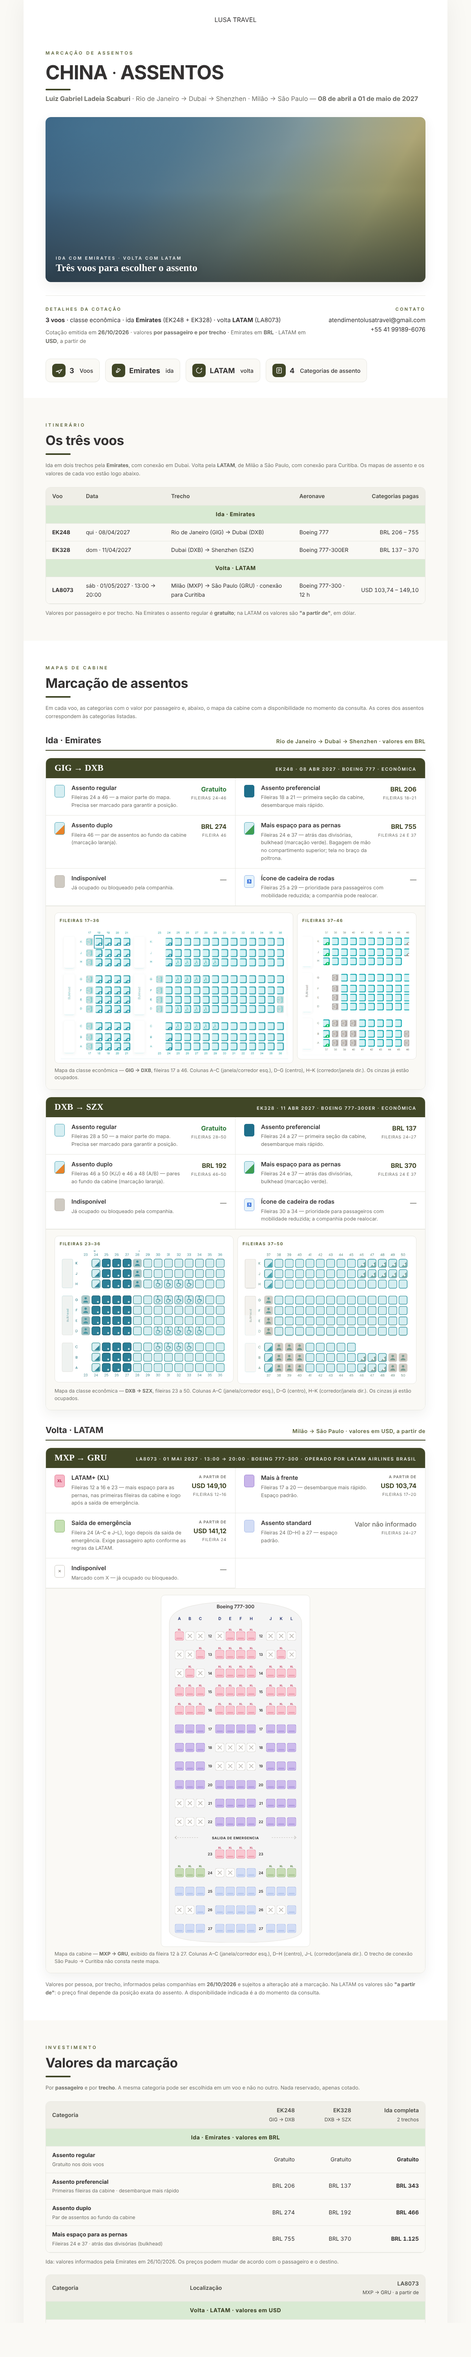
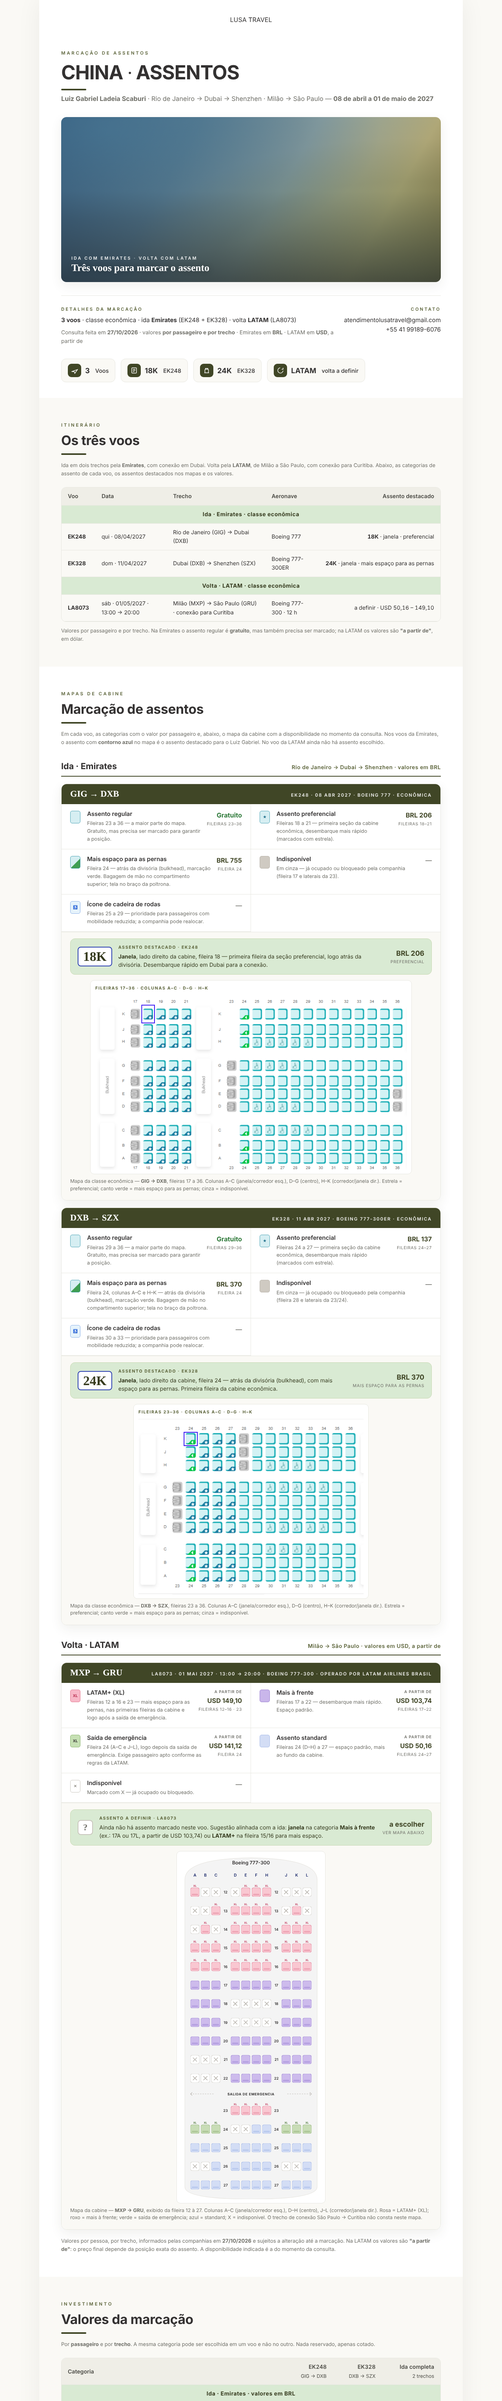
Luiz Gabriel: página de assentos refeita com os prints Emirates (18K/24K) e LATAM com preço standard
- Mapas EK248/EK328 trocados pelos prints enviados (webp sem perdas), assentos destacados
- LA8073 com tabela de preços atualizada (standard USD 50,16)
- Publicada em cotacao-luiz-gabriel-assentos.vercel.app (substitui a versão com imagens corrompidas)

Claude-Session: https://claude.ai/code/session_01AaMdZyqdA5pyaEQqEQ4NjR

Changed region(s): [[0.0925, 0.0, 0.8942, 1.0], [0.7708, 0.0312, 0.925, 0.1558]]

diff --git a/cotacoes/luiz-gabriel-assentos/src/index.html b/cotacoes/luiz-gabriel-assentos/src/index.html
@@ -3,11 +3,24 @@
 <head>
 <meta charset="utf-8">
 <meta name="viewport" content="width=device-width, initial-scale=1">
-<title>Lusa Travel · Marcação de assentos — Luiz Gabriel</title>
+<title>Lusa Travel · Marcação de assentos — Luiz Gabriel Scaburi</title>
 <link rel="preconnect" href="https://fonts.googleapis.com">
 <link rel="preconnect" href="https://fonts.gstatic.com" crossorigin>
 <link href="https://fonts.googleapis.com/css2?family=Cormorant+Garamond:wght@400;500;600;700&family=Poppins:wght@300;400;500;600;700&display=swap" rel="stylesheet">
 <link rel="stylesheet" href="style.css">
+<style>
+.hero-img{height:420px}.hero-img img{object-position:center 40%}@media(max-width:720px){.hero-img{height:230px}}
+.sw-ek-pref{background:#d6eef2;border-color:#4aa3b5!important;color:#1f6f8b;font-size:.85rem}
+.mapone{border:1px solid var(--line);border-radius:10px;background:#fff;padding:12px 12px 10px;max-width:820px;margin:0 auto}
+.mapone img{width:100%;height:auto;display:block}
+.pick{display:grid;grid-template-columns:auto 1fr auto;gap:16px;align-items:center;background:var(--sage);border:1px solid #c6d8b0;border-radius:12px;padding:14px 18px;margin:0 22px 16px}
+.pick .seat{font-family:'Cormorant Garamond',Georgia,serif;font-size:2.1rem;font-weight:700;color:var(--green-dark);line-height:1;padding:6px 12px;border:2px solid #2b3fb0;border-radius:8px;background:#fff}
+.pick .k{font-size:.66rem;letter-spacing:.16em;text-transform:uppercase;font-weight:700;color:var(--green-soft)}
+.pick .d{font-size:.88rem;color:var(--green-dark);margin-top:3px;line-height:1.5}
+.pick .pr{text-align:right;white-space:nowrap}.pick .pr .p{font-weight:700;color:var(--green);font-size:1.1rem}.pick .pr .q{font-size:.66rem;color:var(--muted);text-transform:uppercase;letter-spacing:.07em}
+.seatmap .pick{margin:0 0 14px}
+@media(max-width:640px){.pick{grid-template-columns:auto 1fr}.pick .pr{grid-column:1/-1;text-align:left}}
+</style>
 </head>
 <body>
 <div class="page">
@@ -18,16 +31,15 @@
     <h1>CHINA <span class="amp">·</span> ASSENTOS</h1>
     <div class="accent-line"></div>
     <p class="hero-sub"><b>Luiz Gabriel Ladeia Scaburi</b> · Rio de Janeiro → Dubai → Shenzhen · Milão → São Paulo — <b>08 de abril a 01 de maio de 2027</b></p>
-    <style>.hero-img{height:420px}.hero-img img{object-position:center 40%}@media(max-width:720px){.hero-img{height:230px}}</style>
     <div class="hero-img">
       <img src="img/capa.jpg" alt="China" onerror="this.style.display='none'">
-      <div class="cap"><div class="k">Ida com Emirates · volta com LATAM</div><div class="t">Três voos para escolher o assento</div></div>
+      <div class="cap"><div class="k">Ida com Emirates · volta com LATAM</div><div class="t">Três voos para marcar o assento</div></div>
     </div>
     <div class="hero-info">
       <div>
-        <div class="lbl">Detalhes da cotação</div>
+        <div class="lbl">Detalhes da marcação</div>
         <p><b>3 voos</b> · classe econômica · ida <b>Emirates</b> (EK248 + EK328) · volta <b>LATAM</b> (LA8073)</p>
-        <p class="muted" style="margin-top:8px;font-size:.86rem">Cotação emitida em <b>26/10/2026</b> · valores <b>por passageiro e por trecho</b> · Emirates em <b>BRL</b> · LATAM em <b>USD</b>, a partir de</p>
+        <p class="muted" style="margin-top:8px;font-size:.86rem">Consulta feita em <b>27/10/2026</b> · valores <b>por passageiro e por trecho</b> · Emirates em <b>BRL</b> · LATAM em <b>USD</b>, a partir de</p>
       </div>
       <div class="r">
         <div class="lbl">Contato</div>
@@ -36,9 +48,9 @@
     </div>
     <div class="gloss">
       <div class="chip"><span class="ic"><svg viewBox="0 0 24 24" fill="none" stroke="currentColor" stroke-width="2"><path d="M2 16l20-7-9 13-2-6z"/></svg></span><b>3</b>&nbsp;Voos</div>
-      <div class="chip"><span class="ic"><svg viewBox="0 0 24 24" fill="none" stroke="currentColor" stroke-width="2"><path d="M4 20l7-7M8 4l3 3M14 6l4 4-9 9-4-1-1-4z"/></svg></span><b>Emirates</b>&nbsp;ida</div>
-      <div class="chip"><span class="ic"><svg viewBox="0 0 24 24" fill="none" stroke="currentColor" stroke-width="2"><path d="M21 12.8A9 9 0 1111.2 3"/><path d="M21 3v5h-5"/></svg></span><b>LATAM</b>&nbsp;volta</div>
-      <div class="chip"><span class="ic"><svg viewBox="0 0 24 24" fill="none" stroke="currentColor" stroke-width="2"><rect x="4" y="3" width="16" height="18" rx="2"/><path d="M8 8h8M8 12h8M8 16h5"/></svg></span><b>4</b>&nbsp;Categorias de assento</div>
+      <div class="chip"><span class="ic"><svg viewBox="0 0 24 24" fill="none" stroke="currentColor" stroke-width="2"><rect x="4" y="3" width="16" height="18" rx="2"/><path d="M8 8h8M8 12h8M8 16h5"/></svg></span><b>18K</b>&nbsp;EK248</div>
+      <div class="chip"><span class="ic"><svg viewBox="0 0 24 24" fill="none" stroke="currentColor" stroke-width="2"><path d="M6 20V10a2 2 0 012-2h8a2 2 0 012 2v10"/><path d="M4 20h16M8 8V5h8v3"/></svg></span><b>24K</b>&nbsp;EK328</div>
+      <div class="chip"><span class="ic"><svg viewBox="0 0 24 24" fill="none" stroke="currentColor" stroke-width="2"><path d="M21 12.8A9 9 0 1111.2 3"/><path d="M21 3v5h-5"/></svg></span><b>LATAM</b>&nbsp;volta a definir</div>
     </div>
   </header>
   <!-- RESUMO DOS VOOS -->
@@ -46,60 +58,54 @@
     <span class="eyebrow">Itinerário</span>
     <h2>Os três voos</h2>
     <div class="accent-line"></div>
-    <p class="note" style="margin-top:16px">Ida em dois trechos pela <b>Emirates</b>, com conexão em Dubai. Volta pela <b>LATAM</b>, de Milão a São Paulo, com conexão para Curitiba. Os mapas de assento e os valores de cada voo estão logo abaixo.</p>
+    <p class="note" style="margin-top:16px">Ida em dois trechos pela <b>Emirates</b>, com conexão em Dubai. Volta pela <b>LATAM</b>, de Milão a São Paulo, com conexão para Curitiba. Abaixo, as categorias de assento de cada voo, os assentos destacados nos mapas e os valores.</p>
     <div class="tbl-wrap"><table>
-      <tr class="head-row"><td>Voo</td><td>Data</td><td>Trecho</td><td>Aeronave</td><td class="v">Categorias pagas</td></tr>
-      <tr class="sec-row"><td colspan="5">Ida · Emirates</td></tr>
-      <tr><td><b>EK248</b></td><td>qui · 08/04/2027</td><td>Rio de Janeiro (GIG) → Dubai (DXB)</td><td>Boeing 777</td><td class="v">BRL 206 – 755</td></tr>
-      <tr><td><b>EK328</b></td><td>dom · 11/04/2027</td><td>Dubai (DXB) → Shenzhen (SZX)</td><td>Boeing 777-300ER</td><td class="v">BRL 137 – 370</td></tr>
-      <tr class="sec-row"><td colspan="5">Volta · LATAM</td></tr>
-      <tr><td><b>LA8073</b></td><td>sáb · 01/05/2027 · 13:00 → 20:00</td><td>Milão (MXP) → São Paulo (GRU) · conexão para Curitiba</td><td>Boeing 777-300 · 12 h</td><td class="v">USD 103,74 – 149,10</td></tr>
+      <tr class="head-row"><td>Voo</td><td>Data</td><td>Trecho</td><td>Aeronave</td><td class="v">Assento destacado</td></tr>
+      <tr class="sec-row"><td colspan="5">Ida · Emirates · classe econômica</td></tr>
+      <tr><td><b>EK248</b></td><td>qui · 08/04/2027</td><td>Rio de Janeiro (GIG) → Dubai (DXB)</td><td>Boeing 777</td><td class="v"><b>18K</b> · janela · preferencial</td></tr>
+      <tr><td><b>EK328</b></td><td>dom · 11/04/2027</td><td>Dubai (DXB) → Shenzhen (SZX)</td><td>Boeing 777-300ER</td><td class="v"><b>24K</b> · janela · mais espaço para as pernas</td></tr>
+      <tr class="sec-row"><td colspan="5">Volta · LATAM · classe econômica</td></tr>
+      <tr><td><b>LA8073</b></td><td>sáb · 01/05/2027 · 13:00 → 20:00</td><td>Milão (MXP) → São Paulo (GRU) · conexão para Curitiba</td><td>Boeing 777-300 · 12 h</td><td class="v">a definir · USD 50,16 – 149,10</td></tr>
     </table></div>
-    <p class="note">Valores por passageiro e por trecho. Na Emirates o assento regular é <b>gratuito</b>; na LATAM os valores são <b>"a partir de"</b>, em dólar.</p>
+    <p class="note">Valores por passageiro e por trecho. Na Emirates o assento regular é <b>gratuito</b>, mas também precisa ser marcado; na LATAM os valores são <b>"a partir de"</b>, em dólar.</p>
   </section>
   <!-- ASSENTOS -->
   <section class="section sh">
     <span class="eyebrow">Mapas de cabine</span>
     <h2>Marcação de assentos</h2>
     <div class="accent-line"></div>
-    <p class="note" style="margin-top:16px">Em cada voo, as categorias com o valor por passageiro e, abaixo, o mapa da cabine com a disponibilidade no momento da consulta. As cores dos assentos correspondem às categorias listadas.</p>
+    <p class="note" style="margin-top:16px">Em cada voo, as categorias com o valor por passageiro e, abaixo, o mapa da cabine com a disponibilidade no momento da consulta. Nos voos da Emirates, o assento com <b>contorno azul</b> no mapa é o assento destacado para o Luiz Gabriel. No voo da LATAM ainda não há assento escolhido.</p>
     <div class="grphead"><h3>Ida · Emirates</h3><span class="gt">Rio de Janeiro → Dubai → Shenzhen · valores em BRL</span></div>
     <!-- EK248 -->
     <div class="trecho">
       <div class="trecho-head"><div class="rt">GIG → DXB</div><div class="sub">EK248 · 08 abr 2027 · Boeing 777 · Econômica</div></div>
       <div class="tiers">
-        <div class="tier"><span class="sw sw-ek-reg"></span><div><div class="nm">Assento regular</div><div class="bn">Fileiras 24 a 46 — a maior parte do mapa. Precisa ser marcado para garantir a posição.</div></div><div class="pr"><div class="p p-free">Gratuito</div><div class="q">fileiras 24–46</div></div></div>
-        <div class="tier"><span class="sw sw-ek-pref"></span><div><div class="nm">Assento preferencial</div><div class="bn">Fileiras 18 a 21 — primeira seção da cabine, desembarque mais rápido.</div></div><div class="pr"><div class="p">BRL 206</div><div class="q">fileiras 18–21</div></div></div>
-        <div class="tier"><span class="sw sw-ek-duo"></span><div><div class="nm">Assento duplo</div><div class="bn">Fileira 46 — par de assentos ao fundo da cabine (marcação laranja).</div></div><div class="pr"><div class="p">BRL 274</div><div class="q">fileira 46</div></div></div>
-        <div class="tier"><span class="sw sw-ek-leg"></span><div><div class="nm">Mais espaço para as pernas</div><div class="bn">Fileiras 24 e 37 — atrás das divisórias, bulkhead (marcação verde). Bagagem de mão no compartimento superior; tela no braço da poltrona.</div></div><div class="pr"><div class="p">BRL 755</div><div class="q">fileiras 24 e 37</div></div></div>
-        <div class="tier"><span class="sw sw-ek-na"></span><div><div class="nm">Indisponível</div><div class="bn">Já ocupado ou bloqueado pela companhia.</div></div><div class="pr"><div class="p p-dash">—</div></div></div>
+        <div class="tier"><span class="sw sw-ek-reg"></span><div><div class="nm">Assento regular</div><div class="bn">Fileiras 23 a 36 — a maior parte do mapa. Gratuito, mas precisa ser marcado para garantir a posição.</div></div><div class="pr"><div class="p p-free">Gratuito</div><div class="q">fileiras 23–36</div></div></div>
+        <div class="tier"><span class="sw sw-ek-pref">★</span><div><div class="nm">Assento preferencial</div><div class="bn">Fileiras 18 a 21 — primeira seção da cabine econômica, desembarque mais rápido (marcados com estrela).</div></div><div class="pr"><div class="p">BRL 206</div><div class="q">fileiras 18–21</div></div></div>
+        <div class="tier"><span class="sw sw-ek-leg"></span><div><div class="nm">Mais espaço para as pernas</div><div class="bn">Fileira 24 — atrás da divisória (bulkhead), marcação verde. Bagagem de mão no compartimento superior; tela no braço da poltrona.</div></div><div class="pr"><div class="p">BRL 755</div><div class="q">fileira 24</div></div></div>
+        <div class="tier"><span class="sw sw-ek-na"></span><div><div class="nm">Indisponível</div><div class="bn">Em cinza — já ocupado ou bloqueado pela companhia (fileira 17 e laterais da 23).</div></div><div class="pr"><div class="p p-dash">—</div></div></div>
         <div class="tier"><span class="sw sw-ek-wc">♿</span><div><div class="nm">Ícone de cadeira de rodas</div><div class="bn">Fileiras 25 a 29 — prioridade para passageiros com mobilidade reduzida; a companhia pode realocar.</div></div><div class="pr"><div class="p p-dash">—</div></div></div>
       </div>
       <div class="seatmap">
-        <div class="mapgrid mapgrid-wide">
-          <div class="mapwide"><div class="maplbl">Fileiras 17–36</div><img src="img/assentos/ek248-1.png" alt="Mapa de assentos do EK248, fileiras 17 a 36" loading="lazy"></div>
-          <div class="mapwide mapwide-sm"><div class="maplbl">Fileiras 37–46</div><img src="img/assentos/ek248-2.png" alt="Mapa de assentos do EK248, fileiras 37 a 46" loading="lazy"></div>
-        </div>
-        <div class="cap2">Mapa da classe econômica — <b>GIG → DXB</b>, fileiras 17 a 46. Colunas A–C (janela/corredor esq.), D–G (centro), H–K (corredor/janela dir.). Os cinzas já estão ocupados.</div>
+        <div class="pick"><div class="seat">18K</div><div><div class="k">Assento destacado · EK248</div><div class="d"><b>Janela</b>, lado direito da cabine, fileira 18 — primeira fileira da seção preferencial, logo atrás da divisória. Desembarque rápido em Dubai para a conexão.</div></div><div class="pr"><div class="p">BRL 206</div><div class="q">preferencial</div></div></div>
+        <div class="mapone"><div class="maplbl">Fileiras 17–36 · colunas A–C · D–G · H–K</div><img src="img/assentos/ek248.webp" alt="Mapa de assentos do EK248, fileiras 17 a 36, com o assento 18K destacado" loading="lazy"></div>
+        <div class="cap2">Mapa da classe econômica — <b>GIG → DXB</b>, fileiras 17 a 36. Colunas A–C (janela/corredor esq.), D–G (centro), H–K (corredor/janela dir.). Estrela = preferencial; canto verde = mais espaço para as pernas; cinza = indisponível.</div>
       </div>
     </div>
     <!-- EK328 -->
     <div class="trecho">
       <div class="trecho-head"><div class="rt">DXB → SZX</div><div class="sub">EK328 · 11 abr 2027 · Boeing 777-300ER · Econômica</div></div>
       <div class="tiers">
-        <div class="tier"><span class="sw sw-ek-reg"></span><div><div class="nm">Assento regular</div><div class="bn">Fileiras 28 a 50 — a maior parte do mapa. Precisa ser marcado para garantir a posição.</div></div><div class="pr"><div class="p p-free">Gratuito</div><div class="q">fileiras 28–50</div></div></div>
-        <div class="tier"><span class="sw sw-ek-pref"></span><div><div class="nm">Assento preferencial</div><div class="bn">Fileiras 24 a 27 — primeira seção da cabine, desembarque mais rápido.</div></div><div class="pr"><div class="p">BRL 137</div><div class="q">fileiras 24–27</div></div></div>
-        <div class="tier"><span class="sw sw-ek-duo"></span><div><div class="nm">Assento duplo</div><div class="bn">Fileiras 46 a 50 (K/J) e 46 a 48 (A/B) — pares ao fundo da cabine (marcação laranja).</div></div><div class="pr"><div class="p">BRL 192</div><div class="q">fileiras 46–50</div></div></div>
-        <div class="tier"><span class="sw sw-ek-leg"></span><div><div class="nm">Mais espaço para as pernas</div><div class="bn">Fileiras 24 e 37 — atrás das divisórias, bulkhead (marcação verde).</div></div><div class="pr"><div class="p">BRL 370</div><div class="q">fileiras 24 e 37</div></div></div>
-        <div class="tier"><span class="sw sw-ek-na"></span><div><div class="nm">Indisponível</div><div class="bn">Já ocupado ou bloqueado pela companhia.</div></div><div class="pr"><div class="p p-dash">—</div></div></div>
-        <div class="tier"><span class="sw sw-ek-wc">♿</span><div><div class="nm">Ícone de cadeira de rodas</div><div class="bn">Fileiras 30 a 34 — prioridade para passageiros com mobilidade reduzida; a companhia pode realocar.</div></div><div class="pr"><div class="p p-dash">—</div></div></div>
+        <div class="tier"><span class="sw sw-ek-reg"></span><div><div class="nm">Assento regular</div><div class="bn">Fileiras 29 a 36 — a maior parte do mapa. Gratuito, mas precisa ser marcado para garantir a posição.</div></div><div class="pr"><div class="p p-free">Gratuito</div><div class="q">fileiras 29–36</div></div></div>
+        <div class="tier"><span class="sw sw-ek-pref">★</span><div><div class="nm">Assento preferencial</div><div class="bn">Fileiras 24 a 27 — primeira seção da cabine econômica, desembarque mais rápido (marcados com estrela).</div></div><div class="pr"><div class="p">BRL 137</div><div class="q">fileiras 24–27</div></div></div>
+        <div class="tier"><span class="sw sw-ek-leg"></span><div><div class="nm">Mais espaço para as pernas</div><div class="bn">Fileira 24, colunas A–C e H–K — atrás da divisória (bulkhead), marcação verde. Bagagem de mão no compartimento superior; tela no braço da poltrona.</div></div><div class="pr"><div class="p">BRL 370</div><div class="q">fileira 24</div></div></div>
+        <div class="tier"><span class="sw sw-ek-na"></span><div><div class="nm">Indisponível</div><div class="bn">Em cinza — já ocupado ou bloqueado pela companhia (fileira 28 e laterais da 23/24).</div></div><div class="pr"><div class="p p-dash">—</div></div></div>
+        <div class="tier"><span class="sw sw-ek-wc">♿</span><div><div class="nm">Ícone de cadeira de rodas</div><div class="bn">Fileiras 30 a 33 — prioridade para passageiros com mobilidade reduzida; a companhia pode realocar.</div></div><div class="pr"><div class="p p-dash">—</div></div></div>
       </div>
       <div class="seatmap">
-        <div class="mapgrid mapgrid-wide">
-          <div class="mapwide"><div class="maplbl">Fileiras 23–36</div><img src="img/assentos/ek328-1a.png" alt="Mapa de assentos do EK328, fileiras 23 a 36 (parte superior)" loading="lazy"><img src="img/assentos/ek328-1b.png" alt="Mapa de assentos do EK328, fileiras 23 a 36 (parte inferior)" loading="lazy"></div>
-          <div class="mapwide"><div class="maplbl">Fileiras 37–50</div><img src="img/assentos/ek328-2a.png" alt="Mapa de assentos do EK328, fileiras 37 a 50 (parte superior)" loading="lazy"><img src="img/assentos/ek328-2b.png" alt="Mapa de assentos do EK328, fileiras 37 a 50 (parte inferior)" loading="lazy"></div>
-        </div>
-        <div class="cap2">Mapa da classe econômica — <b>DXB → SZX</b>, fileiras 23 a 50. Colunas A–C (janela/corredor esq.), D–G (centro), H–K (corredor/janela dir.). Os cinzas já estão ocupados.</div>
+        <div class="pick"><div class="seat">24K</div><div><div class="k">Assento destacado · EK328</div><div class="d"><b>Janela</b>, lado direito da cabine, fileira 24 — atrás da divisória (bulkhead), com mais espaço para as pernas. Primeira fileira da cabine econômica.</div></div><div class="pr"><div class="p">BRL 370</div><div class="q">mais espaço para as pernas</div></div></div>
+        <div class="mapone" style="max-width:600px"><div class="maplbl">Fileiras 23–36 · colunas A–C · D–G · H–K</div><img src="img/assentos/ek328.webp" alt="Mapa de assentos do EK328, fileiras 23 a 36, com o assento 24K destacado" loading="lazy"></div>
+        <div class="cap2">Mapa da classe econômica — <b>DXB → SZX</b>, fileiras 23 a 36. Colunas A–C (janela/corredor esq.), D–G (centro), H–K (corredor/janela dir.). Estrela = preferencial; canto verde = mais espaço para as pernas; cinza = indisponível.</div>
       </div>
     </div>
     <div class="grphead"><h3>Volta · LATAM</h3><span class="gt">Milão → São Paulo · valores em USD, a partir de</span></div>
@@ -107,18 +113,19 @@
     <div class="trecho">
       <div class="trecho-head"><div class="rt">MXP → GRU</div><div class="sub">LA8073 · 01 mai 2027 · 13:00 → 20:00 · Boeing 777-300 · operado por LATAM Airlines Brasil</div></div>
       <div class="tiers">
-        <div class="tier"><span class="sw sw-la-xl">XL</span><div><div class="nm">LATAM+ (XL)</div><div class="bn">Fileiras 12 a 16 e 23 — mais espaço para as pernas, nas primeiras fileiras da cabine e logo após a saída de emergência.</div></div><div class="pr"><div class="ap">a partir de</div><div class="p">USD 149,10</div><div class="q">fileiras 12–16</div></div></div>
-        <div class="tier"><span class="sw sw-la-front"></span><div><div class="nm">Mais à frente</div><div class="bn">Fileiras 17 a 20 — desembarque mais rápido. Espaço padrão.</div></div><div class="pr"><div class="ap">a partir de</div><div class="p">USD 103,74</div><div class="q">fileiras 17–20</div></div></div>
-        <div class="tier"><span class="sw sw-la-exit"></span><div><div class="nm">Saída de emergência</div><div class="bn">Fileira 24 (A–C e J–L), logo depois da saída de emergência. Exige passageiro apto conforme as regras da LATAM.</div></div><div class="pr"><div class="ap">a partir de</div><div class="p">USD 141,12</div><div class="q">fileira 24</div></div></div>
-        <div class="tier"><span class="sw sw-la-std"></span><div><div class="nm">Assento standard</div><div class="bn">Fileiras 24 (D–H) a 27 — espaço padrão.</div></div><div class="pr"><div class="p p-dash">Valor não informado</div><div class="q">fileiras 24–27</div></div></div>
+        <div class="tier"><span class="sw sw-la-xl">XL</span><div><div class="nm">LATAM+ (XL)</div><div class="bn">Fileiras 12 a 16 e 23 — mais espaço para as pernas, nas primeiras fileiras da cabine e logo após a saída de emergência.</div></div><div class="pr"><div class="ap">a partir de</div><div class="p">USD 149,10</div><div class="q">fileiras 12–16 · 23</div></div></div>
+        <div class="tier"><span class="sw sw-la-front"></span><div><div class="nm">Mais à frente</div><div class="bn">Fileiras 17 a 22 — desembarque mais rápido. Espaço padrão.</div></div><div class="pr"><div class="ap">a partir de</div><div class="p">USD 103,74</div><div class="q">fileiras 17–22</div></div></div>
+        <div class="tier"><span class="sw sw-la-exit">XL</span><div><div class="nm">Saída de emergência</div><div class="bn">Fileira 24 (A–C e J–L), logo depois da saída de emergência. Exige passageiro apto conforme as regras da LATAM.</div></div><div class="pr"><div class="ap">a partir de</div><div class="p">USD 141,12</div><div class="q">fileira 24</div></div></div>
+        <div class="tier"><span class="sw sw-la-std"></span><div><div class="nm">Assento standard</div><div class="bn">Fileiras 24 (D–H) a 27 — espaço padrão, mais ao fundo da cabine.</div></div><div class="pr"><div class="ap">a partir de</div><div class="p">USD 50,16</div><div class="q">fileiras 24–27</div></div></div>
         <div class="tier"><span class="sw sw-la-na">✕</span><div><div class="nm">Indisponível</div><div class="bn">Marcado com X — já ocupado ou bloqueado.</div></div><div class="pr"><div class="p p-dash">—</div></div></div>
       </div>
       <div class="seatmap">
+        <div class="pick"><div class="seat" style="border-color:#c9c5bd;color:var(--muted);font-size:1.4rem">?</div><div><div class="k">Assento a definir · LA8073</div><div class="d">Ainda não há assento marcado neste voo. Sugestão alinhada com a ida: <b>janela</b> na categoria <b>Mais à frente</b> (ex.: 17A ou 17L, a partir de USD 103,74) ou <b>LATAM+</b> na fileira 15/16 para mais espaço.</div></div><div class="pr"><div class="p p-dash">a escolher</div><div class="q">ver mapa abaixo</div></div></div>
         <div class="mapsvg"><img src="img/assentos/la8073.svg" alt="Mapa de assentos do LA8073, Boeing 777-300, fileiras 12 a 27" loading="lazy"></div>
-        <div class="cap2">Mapa da cabine — <b>MXP → GRU</b>, exibido da fileira 12 à 27. Colunas A–C (janela/corredor esq.), D–H (centro), J–L (corredor/janela dir.). O trecho de conexão São Paulo → Curitiba não consta neste mapa.</div>
+        <div class="cap2">Mapa da cabine — <b>MXP → GRU</b>, exibido da fileira 12 à 27. Colunas A–C (janela/corredor esq.), D–H (centro), J–L (corredor/janela dir.). Rosa = LATAM+ (XL); roxo = mais à frente; verde = saída de emergência; azul = standard; X = indisponível. O trecho de conexão São Paulo → Curitiba não consta neste mapa.</div>
       </div>
     </div>
-    <p class="note" style="margin-top:18px">Valores por pessoa, por trecho, informados pelas companhias em <b>26/10/2026</b> e sujeitos a alteração até a marcação. Na LATAM os valores são <b>"a partir de"</b>: o preço final depende da posição exata do assento. A disponibilidade indicada é a do momento da consulta.</p>
+    <p class="note" style="margin-top:18px">Valores por pessoa, por trecho, informados pelas companhias em <b>27/10/2026</b> e sujeitos a alteração até a marcação. Na LATAM os valores são <b>"a partir de"</b>: o preço final depende da posição exata do assento. A disponibilidade indicada é a do momento da consulta.</p>
   </section>
   <!-- VALORES -->
   <section class="section sh" style="background:var(--cream)">
@@ -131,21 +138,23 @@
       <tr class="sec-row"><td colspan="4">Ida · Emirates · valores em BRL</td></tr>
       <tr><td><b>Assento regular</b><div class="rm">Gratuito nos dois voos</div></td><td class="v">Gratuito</td><td class="v">Gratuito</td><td class="v"><b>Gratuito</b></td></tr>
       <tr><td><b>Assento preferencial</b><div class="rm">Primeiras fileiras da cabine · desembarque mais rápido</div></td><td class="v">BRL 206</td><td class="v">BRL 137</td><td class="v"><b>BRL 343</b></td></tr>
-      <tr><td><b>Assento duplo</b><div class="rm">Par de assentos ao fundo da cabine</div></td><td class="v">BRL 274</td><td class="v">BRL 192</td><td class="v"><b>BRL 466</b></td></tr>
-      <tr><td><b>Mais espaço para as pernas</b><div class="rm">Fileiras 24 e 37 · atrás das divisórias (bulkhead)</div></td><td class="v">BRL 755</td><td class="v">BRL 370</td><td class="v"><b>BRL 1.125</b></td></tr>
+      <tr><td><b>Mais espaço para as pernas</b><div class="rm">Fileira 24 · atrás da divisória (bulkhead)</div></td><td class="v">BRL 755</td><td class="v">BRL 370</td><td class="v"><b>BRL 1.125</b></td></tr>
+      <tr class="sec-row"><td colspan="4">Assentos destacados nos mapas</td></tr>
+      <tr class="total-row"><td><b>18K no EK248 + 24K no EK328</b><div class="rm">Preferencial na ida ao Dubai · mais espaço para as pernas até Shenzhen</div></td><td class="v">BRL 206</td><td class="v">BRL 370</td><td class="v"><b>BRL 576</b></td></tr>
     </table></div>
-    <p class="note">Ida: valores informados pela Emirates em 26/10/2026. Os preços podem mudar de acordo com o passageiro e o destino.</p>
+    <p class="note">Ida: valores informados pela Emirates em 27/10/2026. Os preços podem mudar de acordo com o passageiro e o destino.</p>
     <div class="tbl-wrap" style="margin-top:22px"><table>
       <tr class="head-row"><td>Categoria</td><td>Localização</td><td class="v">LA8073<br><span style="font-weight:400;font-size:.78rem">MXP → GRU · a partir de</span></td></tr>
       <tr class="sec-row"><td colspan="3">Volta · LATAM · valores em USD</td></tr>
-      <tr><td><b>LATAM+ (XL)</b><div class="rm">Mais espaço para as pernas</div></td><td>Fileiras 12 a 16</td><td class="v"><b>USD 149,10</b></td></tr>
+      <tr><td><b>LATAM+ (XL)</b><div class="rm">Mais espaço para as pernas</div></td><td>Fileiras 12 a 16 e 23</td><td class="v"><b>USD 149,10</b></td></tr>
       <tr><td><b>Saída de emergência</b><div class="rm">Exige passageiro apto</div></td><td>Fileira 24 · A–C e J–L</td><td class="v"><b>USD 141,12</b></td></tr>
-      <tr><td><b>Mais à frente</b><div class="rm">Desembarque mais rápido</div></td><td>Fileiras 17 a 20</td><td class="v"><b>USD 103,74</b></td></tr>
+      <tr><td><b>Mais à frente</b><div class="rm">Desembarque mais rápido</div></td><td>Fileiras 17 a 22</td><td class="v"><b>USD 103,74</b></td></tr>
+      <tr><td><b>Standard</b><div class="rm">Espaço padrão</div></td><td>Fileiras 24 (D–H) a 27</td><td class="v"><b>USD 50,16</b></td></tr>
     </table></div>
-    <p class="note">Volta: valores informados pela LATAM em 26/10/2026, em dólar americano. A conversão para reais segue o câmbio do dia do pagamento.</p>
+    <p class="note">Volta: valores informados pela LATAM em 27/10/2026, em dólar americano. A conversão para reais segue o câmbio do dia do pagamento.</p>
     <div class="howbox">
-      <p><b>Como escolher.</b> Consulte os mapas acima e nos envie, para cada um dos três voos, a <b>fileira e a letra</b> do assento desejado. Indique uma <b>segunda opção</b> caso a primeira já não esteja disponível no momento da marcação.</p>
-      <p>Exemplo: <b>EK248</b> · 1ª opção 24K · 2ª opção 37A &nbsp;·&nbsp; <b>EK328</b> · 1ª opção 29K · 2ª opção 38A &nbsp;·&nbsp; <b>LA8073</b> · 1ª opção 17A · 2ª opção 19L</p>
+      <p><b>Como confirmar.</b> Se os assentos destacados na Emirates estiverem de acordo, é só nos responder <b>"confirmo 18K e 24K"</b> e indicar o assento desejado na <b>LATAM</b>. Para qualquer voo, informe a <b>fileira e a letra</b> e uma <b>segunda opção</b>, caso a primeira não esteja mais disponível na hora da marcação.</p>
+      <p>Exemplo: <b>EK248</b> · 1ª opção 18K · 2ª opção 19K &nbsp;·&nbsp; <b>EK328</b> · 1ª opção 24K · 2ª opção 24A &nbsp;·&nbsp; <b>LA8073</b> · 1ª opção 17A · 2ª opção 19L</p>
     </div>
     <div class="obs">
       <h4>Observações</h4>

diff --git a/cotacoes/luiz-gabriel-assentos/README.md b/cotacoes/luiz-gabriel-assentos/README.md
@@ -1,14 +1,20 @@
-# Luiz Gabriel — Marcação de assentos (China, abril 2027)
+# Luiz Gabriel Scaburi — Marcação de assentos (China, abril/maio 2027)
 
 Página no visual de `cotacao-andre-paris` (seção "Marcação de assentos").
 Publicada em https://cotacao-luiz-gabriel-assentos.vercel.app (projeto Vercel
 `cotacao-luiz-gabriel-assentos`, deploy por API com os arquivos de `src/`).
 
 - `src/index.html` + `src/style.css` — página (CSS separado e enxuto para caber no upload por API).
-- `src/img/assentos/ek*.png` — mapas Emirates recortados do PDF (EK328 em duas metades empilhadas).
+- `src/img/assentos/ek248.webp`, `ek328.webp` — prints dos mapas Emirates enviados pelo cliente
+  em 27/10/2026 (webp sem perdas), com os assentos 18K e 24K destacados em azul.
 - `src/img/assentos/la8073.svg` — mapa LATAM LA8073 redesenhado em vetor a partir da imagem
   enviada pelo cliente; gerado por `gen_la8073.py`.
-- `fonte/assentos-luiz-gabriel.pdf` — PDF original da marcação.
+- `fonte/emirates/` — prints originais (cabeçalhos, mapas e legenda de preços).
+- `fonte/assentos-luiz-gabriel.pdf` — PDF da versão anterior (fonte dos valores do EK328 e LATAM).
 - Logos (`img/logo-*.png`) e capa (`img/capa.jpg`) não estão aqui: no deploy são
   referenciadas pelo SHA dos arquivos já publicados em `cotacao-luiz-gabriel-rev`.
 - `preview-desktop.png` — render de conferência.
+
+Valores (27/10/2026): EK248 preferencial BRL 206 · mais espaço BRL 755; EK328 preferencial
+BRL 137 · mais espaço BRL 370; LA8073 (USD, a partir de) LATAM+ 149,10 · saída de emergência
+141,12 · mais à frente 103,74 · standard 50,16.
